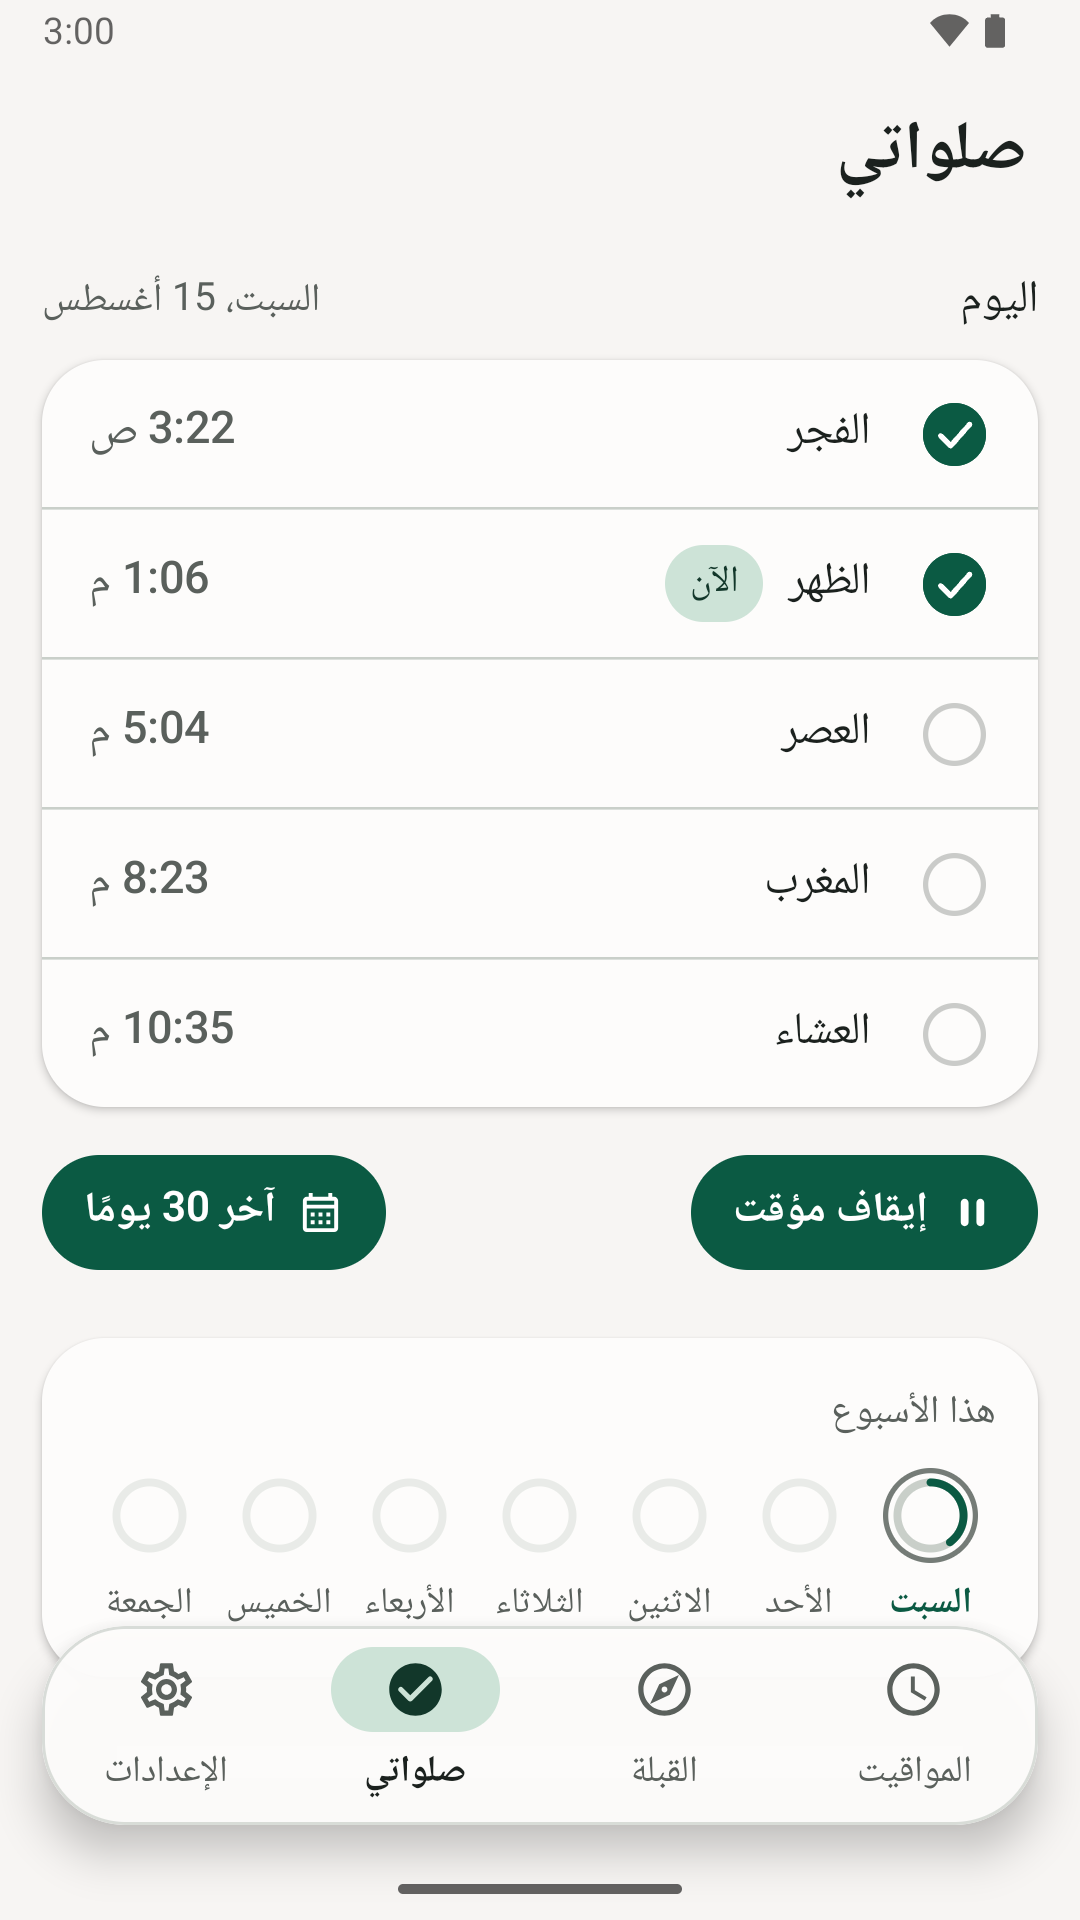
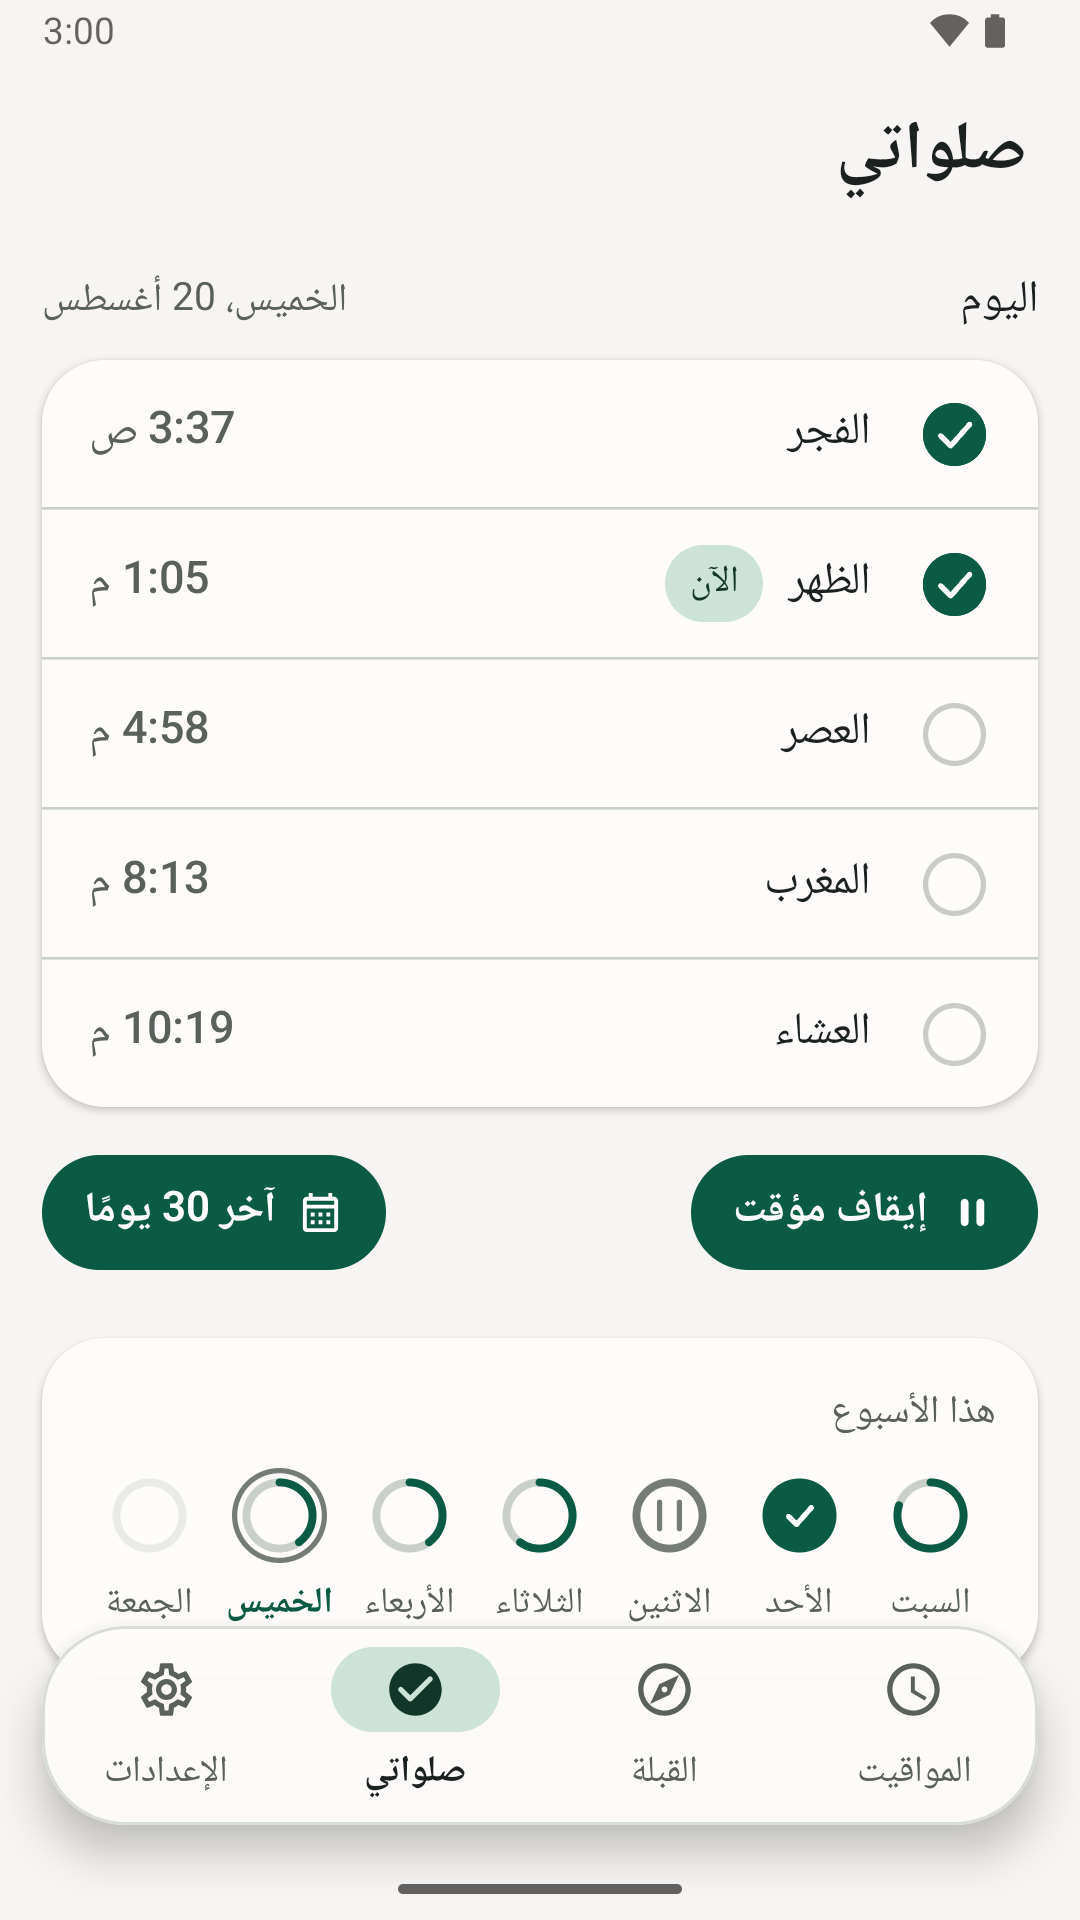
Step 11: Arabic light pictures retaken on Thu 20 Aug, three translation fixes from the review
Fable judged the 24 store pictures: keep 23. Arabic My prayers was the one
to retake: Arabic weeks start on Saturday, so on Saturday 15 Aug the week
card showed only today, which hid the feature the picture exists for. The
three Arabic light pictures (01, 02, 03) are now taken on Thursday 20 Aug
15:00 London, after a fresh seed, so the Arabic listing agrees with itself
and the week card is full. Checked by eye: Asr Next, Dhuhr Now, Fajr and
Dhuhr ticked, Turn right 58.

An independent Opus reviewer back translated the eight 1.6.0 listings.
All pass; three wording fixes applied (French Timetable vs Times named the
same, a French sentence with no noun, Turkish save and print vs save or
print). Counts relabelled and rechecked by script.

The release script still takes Arabic on 15 Aug; that change follows with
the whole diff review's fixes.

diff --git a/docs/store/LISTING-LOCALES.md b/docs/store/LISTING-LOCALES.md
@@ -67,11 +67,11 @@ Python `len`, newlines counted, no final newline. Check Play's own counter when 
 |---|---|---|---|---|
 | Arabic (ar) | 30 (unchanged) | 69 / 80 | 3736 / 4000 | 459 / 500 |
 | Urdu (ur) | 30 (unchanged) | 75 / 80 | 3988 / 4000 | 494 / 500 |
-| Turkish (tr-TR) | 26 (unchanged) | 80 / 80 | 3987 / 4000 | 498 / 500 |
+| Turkish (tr-TR) | 26 (unchanged) | 80 / 80 | 3993 / 4000 | 498 / 500 |
 | Indonesian (id-ID) | 24 (unchanged) | 80 / 80 | 3984 / 4000 | 496 / 500 |
 | Malay (ms-MY) | 30 (unchanged) | 76 / 80 | 3988 / 4000 | 494 / 500 |
 | Bengali (bn-BD) | 27 (unchanged) | 76 / 80 | 3981 / 4000 | 490 / 500 |
-| French (fr-FR) | 29 (unchanged) | 77 / 80 | 3986 / 4000 | 498 / 500 |
+| French (fr-FR) | 29 (unchanged) | 77 / 80 | 3996 / 4000 | 500 / 500 |
 | Hindi (hi-IN) | 23 (unchanged) | 80 / 80 | 3987 / 4000 | 499 / 500 |
 
 ### Arabic (ar), 1.6.0
@@ -275,7 +275,7 @@ SajdaTime: Namaz Vakitleri
 İnternetsiz namaz vakitleri, ezan, kıble ve size özel namaz takibi. Wear OS ile.
 ```
 
-**Full description** `3987 / 4000` (1.5.0 was 3974)
+**Full description** `3993 / 4000` (1.5.0 was 3974)
 ```
 SajdaTime, Sünni ve Şii Müslümanlara telefonunuzda ve Wear OS saatinizde namaz vakitleri, ezan vakti uyarıları ve kıble pusulası sunar. Reklam yok, hesap yok. Vakitler telefonunuzda hesaplanır, bu yüzden internetsiz, sinyal yokken de çalışır.
 
@@ -284,7 +284,7 @@ NAMAZ VAKİTLERİ VE KIBLE
 • Sabah, Güneş, Öğle, İkindi, Akşam ve Yatsı, sıradaki namaza canlı geri sayımla
 • Hicri tarih (İslami takvim) ve yılın İslami tarihleri
 • Kıble yönü: gerçek kuzeye göre düzeltilmiş, Kâbe'ye döndüğünüzde bir kez titreyen pusula
-• Bu ayın ve gelecek ayın vakit çizelgesi ile Ramazan imsakiyesi, PDF olarak kaydedip yazdırın
+• Bu ayın ve gelecek ayın vakit çizelgesi ile Ramazan imsakiyesi, PDF olarak kaydedin ya da yazdırın
 
 UYARILAR VE EZAN
 
@@ -641,9 +641,9 @@ SajdaTime: Horaires de prière
 Heures de prière hors ligne, adhan, Qibla et suivi privé des prières. Wear OS
 ```
 
-**Full description** `3986 / 4000` (1.5.0 was 3982)
+**Full description** `3996 / 4000` (1.5.0 was 3982)
 ```
-SajdaTime : horaires de prière (salat), alertes d'adhan et boussole Qibla pour sunnites et chiites, sur téléphone et montre Wear OS. Sans pub ni compte, calculés sur le téléphone, donc hors ligne.
+SajdaTime : horaires de prière (salat), alertes d'adhan et boussole Qibla pour sunnites et chiites, sur téléphone et montre Wear OS. Sans pub ni compte ; horaires calculés sur le téléphone, donc hors ligne.
 
 HORAIRES DE PRIÈRE ET QIBLA
 
@@ -713,9 +713,9 @@ Ni version payante, ni abonnement, rien de verrouillé. SajdaTime est offert en 
 Je ne demande qu'une chose en retour : pensez à moi, à ma famille et à mes parents dans vos douas. Jazak Allah khayr.
 ```
 
-**What's new** `498 / 500`
+**What's new** `500 / 500`
 ```
-Mes prières : suivi privé, semaine et 30 derniers jours, sur le téléphone. Une cloche par prière active ou coupe son alerte. Horaires : ce mois et le suivant, une carte par jour, à enregistrer en PDF. Ajoutez la jama'ah et le Joumou'a de votre mosquée sous chaque prière. La date hégirienne ouvre les dates islamiques de l'année. La Qibla dit où tourner d'abord. Horaires et widget prochaine prière suivent le moment du jour. Widget des cinq prières. Si votre mosquée diffère, suivez votre mosquée.
+Mes prières : suivi privé, semaine et 30 derniers jours, sur le téléphone. Une cloche par prière active ou coupe son alerte. Calendrier : ce mois et le suivant, une carte par jour, à enregistrer en PDF. Ajoutez la jama'ah et le Joumou'a de votre mosquée sous chaque prière. La date hégirienne ouvre les dates islamiques de l'année. La Qibla dit où tourner d'abord. Horaires et widget prochaine prière suivent le moment du jour. Widget des cinq prières. Si votre mosquée diffère, suivez votre mosquée.
 ```
 
 ### Hindi (hi-IN), 1.6.0

diff --git a/docs/translation/store-listing-1.6.0.md b/docs/translation/store-listing-1.6.0.md
@@ -346,3 +346,11 @@ strip. Where your mosque differs, go by your mosque.
 
 Notes: "नमाज़ ट्रैकर" is the transliterated term Indian users type. "जमाअत" and "इक़ामत" are the Urdu derived spellings the
 1.5.0 Hindi already uses for religious words; "जुमा" for Jumu'ah. "पहर" (part of the day) is everyday Hindi and Urdu.
+
+## Independent review, 25 Oct 2026
+
+A separate Opus reviewer back translated every new or changed line in all eight before reading this record. Meaning matched English everywhere; HONEST and FREE byte identical to 1.5.0 in 8 of 8; no added hyphens, no Chrome line, no promise of accuracy or reward. Three fixes applied by the main session:
+- French What's new: "Horaires" named both Timetable and Times; Timetable is now "Calendrier" (500 / 500).
+- French full description, first paragraph: "calculés" had no noun; now "Sans pub ni compte ; horaires calculés" (3996 / 4000).
+- Turkish timetable bullet: "kaydedip yazdırın" (save and print) is now "kaydedin ya da yazdırın" (save or print) (3993 / 4000).
+Left as is, deliberately: the "an hour before" suhoor wording in six languages (true for the default of 60, unchanged from 1.5.0); Indonesian "salat" in What's new against "sholat" in the full text (app spelling against search spelling).
